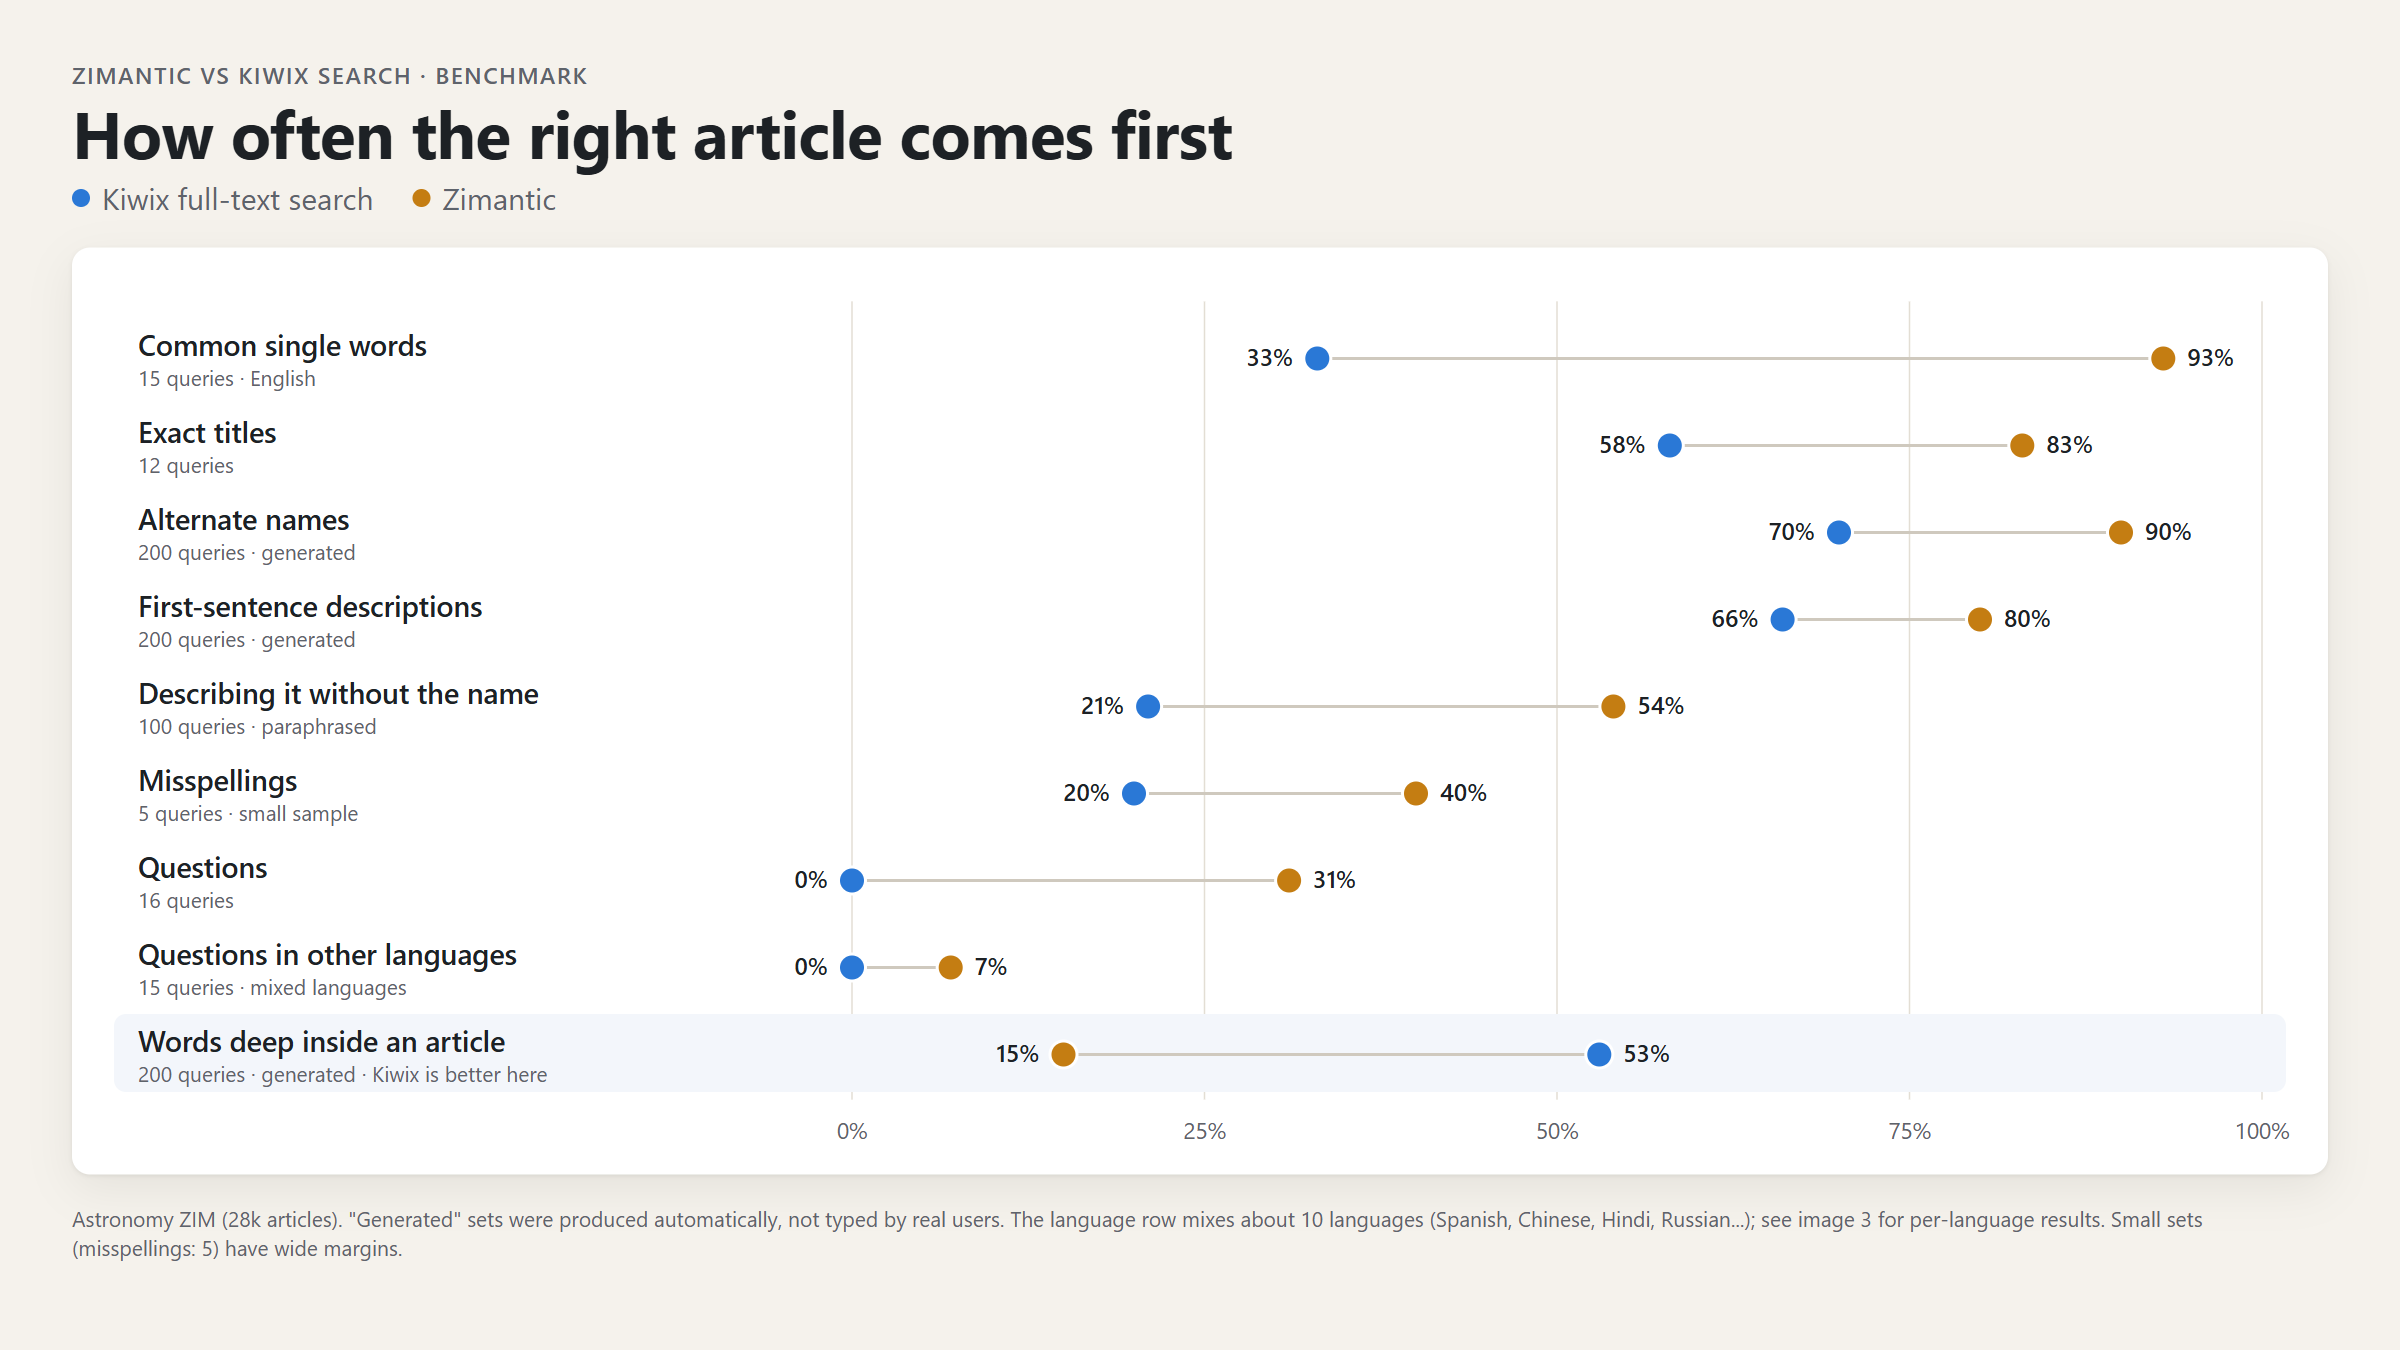
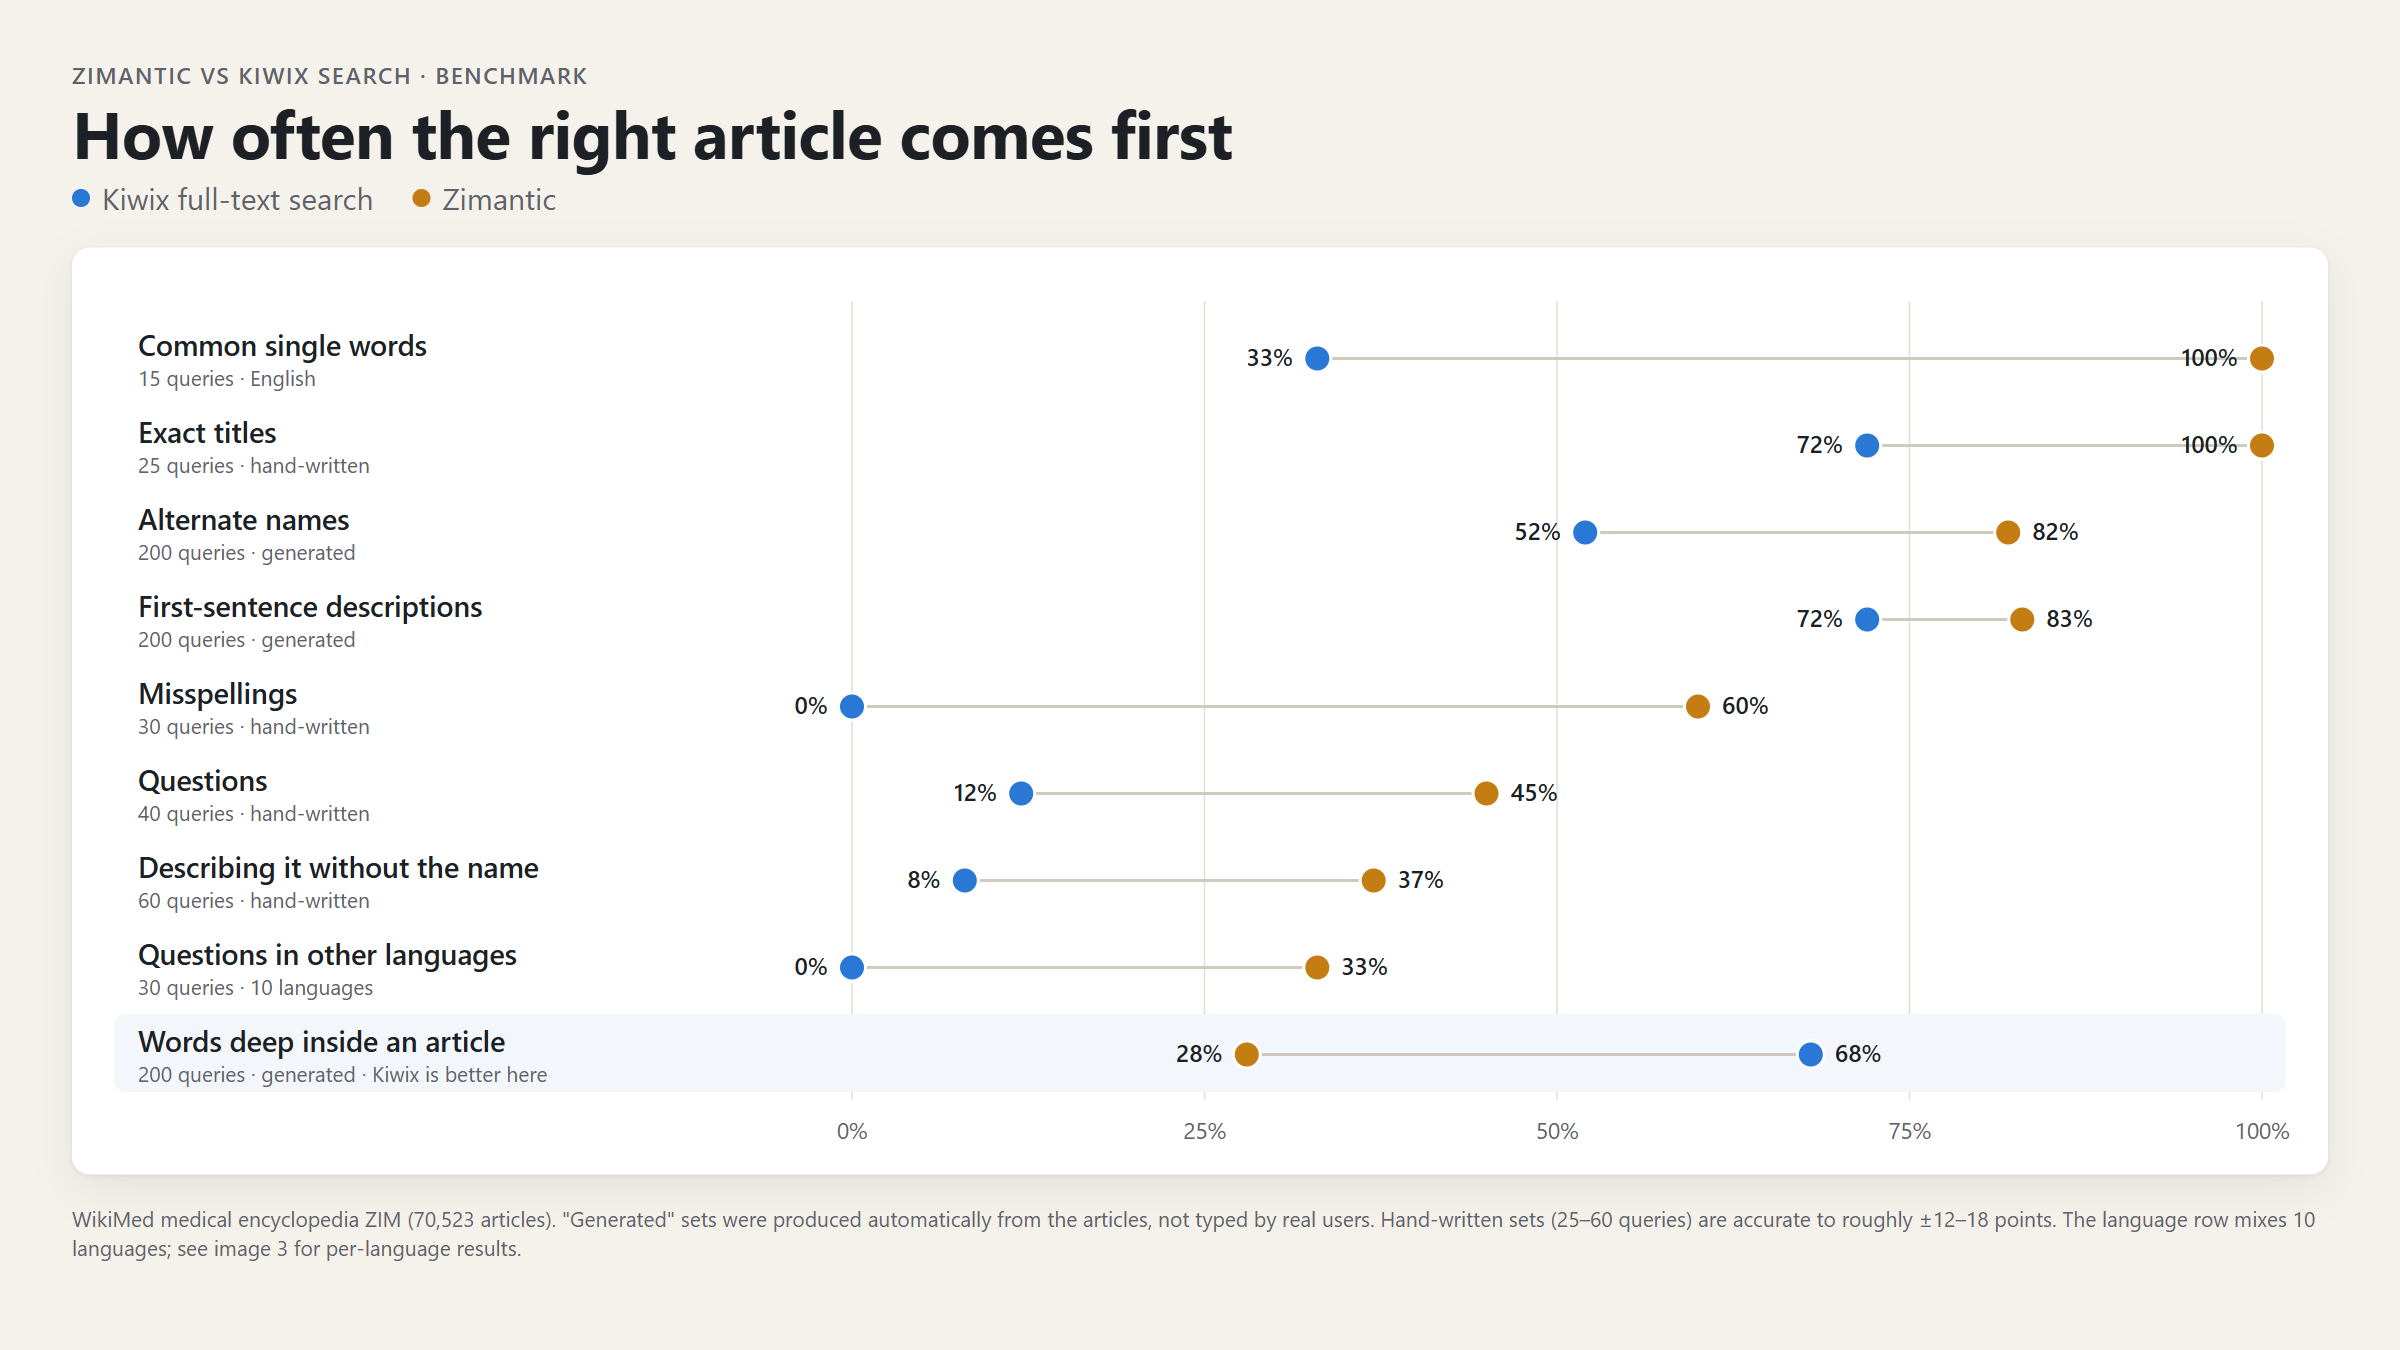
Change: tested on wikimed

diff --git a/README.md b/README.md
@@ -9,14 +9,16 @@ as a Raspberry Pi Zero 2 W.
 
 | You type | Kiwix search | Zimantic |
 |---|---|---|
-| "comet that comes back every 76 years" | *Halley's Comet* at #4 | *Halley's Comet* at **#1** |
-| "moon" | *Moon* at #9 | *Moon* at **#1** |
-| "الشمس" (Arabic for "the sun") | *Sun* not in the top 20 | *Sun* at **#1** |
+| "what causes lockjaw" | *Tetanus* not in the top 20 | *Tetanus* at **#1** |
+| "diabetis" (misspelled) | *Diabetes* not in the top 20 | *Diabetes* at **#1** |
+| "糖尿病" (Chinese for "diabetes") | *Diabetes* not in the top 20 | *Diabetes* at **#1** |
+
+*Searched in WikiMed, the Wikipedia medical encyclopedia ZIM. Results below.*
 
 ## Features
 
 - **Search by meaning**: questions and descriptions find articles even when they share no words with the title.
-- **Alternate names and misspellings**: "andromeda galaxie" finds *Andromeda Galaxy*.
+- **Alternate names and misspellings**: "diabetis" finds *Diabetes*; "Leber's disease" finds *Leber's hereditary optic neuropathy*.
 - **Multilingual**: one model covers 100+ languages; a query in one language finds articles written in another.
   Strongest in widely used languages (see the results below).
 - **Several collections at once**: search any combination of your ZIMs, ranked together in one list.
@@ -63,7 +65,7 @@ Input is capped at 256 tokens.
 | ZIM size | Vector index | Why |
 |---|---|---|
 | Under 10,000 articles | **Flat**: the query is compared with every vector | Exact, and small enough (a few MB) that comparing everything is fast |
-| 10,000 articles or more | **IVF + 8-bit (SQ8)**: vectors are grouped into 4·√n clusters, and each search only scans the closest `nprobe` clusters (64 by default) | Comparing millions of vectors per search is too slow. On the 28k-article astronomy ZIM, scanning 64 of 672 clusters (~10%) was about as accurate as scanning everything. 8-bit numbers were nearly exact. **heavier compression methods (e.g. PQ48) lost ~25% of the top hits.** |
+| 10,000 articles or more | **IVF + 8-bit (SQ8)**: vectors are grouped into 4·√n clusters, and each search only scans the closest `nprobe` clusters (64 by default) | Comparing millions of vectors per search is too slow. On WikiMed (70k articles), scanning 64 of 1,062 clusters (6%) was within a few points of scanning every cluster, at less than half the search time (26 ms vs 66 ms). 8-bit numbers were nearly exact. **Heavier compression (e.g. PQ48) lost ~25% of the top hits in earlier testing.** |
 
 The `.faiss` file is memory-mapped: the operating system reads only the **clusters** a search touches instead of loading
 the whole index into RAM. Clusters are found relative to the distance of query-to-cluster centres in vector space.
@@ -74,7 +76,7 @@ If a build stops, running it again resumes from the last saved batch.
 
 At startup Zimantic loads the embedding model and opens every **finished** index; that is, the SQLite file
 , the FAISS file, and the ZIM.
-These stay open for as long as the server runs; **nothing is reloaded per search**.
+These stay open for as long as the server runs; **nothing is reloaded per search**. 
 
 A lightweight HTML page is served through FastAPI and is accessible from any browser at `http://<host>:8090`
 (the `port` in `config.yaml`).
@@ -86,9 +88,9 @@ A lightweight HTML page is served through FastAPI and is accessible from any bro
 
    | Search | Finds | Good at | Time |
    |---|---|---|---|
-   | **Meaning** (FAISS) | Articles whose first-paragraph vector is closest to the query (cosine similarity) | Questions, descriptions, other languages | ~5 ms |
-   | **Title words** (SQLite FTS5, BM25 ranking) | Titles containing every word of the query, including redirect titles | Exact titles, alternate names (via redirect titles) | ~2 ms |
-   | **Full text** (the ZIM's own Kiwix index) | Articles containing the words anywhere | Words buried deep inside an article | ~5 ms |
+   | **Meaning** (FAISS) | Articles whose first-paragraph vector is closest to the query (cosine similarity) | Questions, descriptions, other languages | ~13 ms |
+   | **Title words** (SQLite FTS5, BM25 ranking) | Titles containing every word of the query, including redirect titles | Exact titles, alternate names (via redirect titles) | ~4 ms |
+   | **Full text** (the ZIM's own Kiwix index) | Articles containing the words anywhere | Words buried deep inside an article | ~8 ms |
 
 3. **Collapse redirects**: every hit on a redirect is replaced by the article it points to, and duplicates are
    merged, so each article appears only once.
@@ -97,7 +99,8 @@ A lightweight HTML page is served through FastAPI and is accessible from any bro
    an article earns `1 / (60 + its position)` from each list it appears in. An article found near the top
    by several searches beats one that's first in just one.
 
-*Timings may vary.*
+*Timings measured on WikiMed; a whole search took 26 ms (median over 785 benchmark queries).
+A Raspberry Pi Zero 2 W is much slower (around 150 ms).*
 
 ## Compared with Kiwix search
 
@@ -106,7 +109,8 @@ A lightweight HTML page is served through FastAPI and is accessible from any bro
 ![Ask in another language](docs/images/3-languages.png)
 ![How often the right article comes first: Zimantic vs Kiwix](docs/images/0-scorecard.png)
 
-*Measured on the Wikipedia astronomy ZIM (28k articles), against kiwix-serve's full-text search.*
+*Measured on WikiMed, the Wikipedia medical encyclopedia ZIM (`wikipedia_en_medicine_maxi_2026-04`, 70,523 articles),
+against kiwix-serve's full-text search.*
 
 ### Results by type of search
 
@@ -115,38 +119,42 @@ A lightweight HTML page is served through FastAPI and is accessible from any bro
 
 | Type of search | Example query → article wanted | Kiwix | Zimantic | #1 Kiwix → Zimantic | Top 5 Kiwix → Zimantic | Queries |
 |---|---|---|---|---|---|---|
-| Common single words | "moon" → *Moon* | #9 | **#1** | 33% → **93%** | 80% → **93%** | 15 |
-| Exact titles | "Jupiter" → *Jupiter* | #2 | **#1** | 58% → **83%** | **100%** → 83% | 12 |
-| Alternate names | "Cosmic rays" → *Cosmic ray* | #2 | **#1** | 70% → **90%** | 80% → **98%** | 200¹ |
-| Misspellings | "andromeda galaxie" → *Andromeda Galaxy* | #3 | **#1** | 20% → **40%** | 40% → **60%** | 5² |
-| First-sentence descriptions | "is a blue supergiant star in the constellation of Major." → *Eta Canis Majoris* | #4 | **#1** | 66% → **80%** | 80% → **89%** | 200¹ |
-| Describing it without the name | "device that automatically keeps a telescope locked onto the target it is observing" → *Autoguider* | not in top 20 | **#1** | 21% → **54%** | 29% → **74%** | 100 |
-| Questions | "comet that comes back every 76 years" → *Halley's Comet* | #4 | **#1** | 0% → **31%** | 25% → **69%** | 16 |
-| Questions & phrases in other languages³ | "¿por qué la luna tiene fases?" (Spanish) → *Lunar phase* | not in top 20 | **#1** | 0% → **7%** | 0% → **20%** | 15 |
-| Words deep inside an article | "In 1998, was awarded the Swiss Marcel Benoist Prize…" → *Michel Mayor* | **#1** | #2 | **53%** → 15% | **65%** → 58% | 200¹ |
+| Common single words | "tuberculosis" → *Tuberculosis* | #3 | **#1** | 33% → **100%** | 93% → **100%** | 15 |
+| Exact titles | "Malaria" → *Malaria* | #2 | **#1** | 72% → **100%** | 100% → 100% | 25 |
+| Alternate names | "Leber's disease" → *Leber's hereditary optic neuropathy* | #2 | **#1** | 52% → **82%** | 70% → **99%** | 200¹ |
+| Misspellings | "diabetis" → *Diabetes* | not in top 20 | **#1** | 0% → **60%** | 7% → **83%** | 30 |
+| First-sentence descriptions | "(INN) is a non-steroidal anti-inflammatory drug (NSAID)." → *Ampiroxicam* | #5 | **#1** | 72% → **83%** | 82% → **92%** | 200¹ |
+| Describing it without the name | "poor blood flow to part of the brain that kills brain cells" → *Stroke* | #17 | **#1** | 8% → **37%** | 37% → **78%** | 60 |
+| Questions | "what causes lockjaw" → *Tetanus* | not in top 20 | **#1** | 12% → **45%** | 28% → **80%** | 40 |
+| Questions & phrases in other languages² | "Herzinfarkt" (German: heart attack) → *Myocardial infarction* | not in top 20 | **#1** | 0% → **33%** | 0% → **53%** | 30 |
+| Words deep inside an article | "When undergoing lymphadenopathy, these are described as feeling like a "firm pea"." → *Facial lymph nodes* | **#1** | #2 | **68%** → 28% | **78%** → 76% | 200¹ |
 
-¹ Generated automatically from the articles, not typed by real users.
-² Small sample: treat as a direction, not a precise number.
-³ Spanish, French, German, Chinese, Arabic, Hindi, Swahili, Russian, Japanese and Portuguese, mixed.
+¹ Generated automatically from the articles, not typed by real users. The other sets were written by hand; with 25–60 queries
+each, treat their numbers as accurate to roughly ±12–18 points.
+² Spanish, French, German, Chinese, Hindi, Arabic, Russian, Japanese, Swahili and Portuguese, mixed.
 
 ### Single words in other languages
 
-The English articles searched with one word in another language (for example "moon" in that language), 15 words per language.
+The English articles searched with one word in another language, 15 common medical words per language
+(malaria, diabetes, fever, cough, pregnancy, heart, blood, …). Translations were written for this test, so less common
+languages may contain mistakes.
 
 | Language | Example query → article wanted | Kiwix | Zimantic | #1 Kiwix → Zimantic | Top 5 Kiwix → Zimantic |
 |---|---|---|---|---|---|
-| English | "sun" → *Sun* | #2 | **#1** | 33% → **93%** | 80% → **93%** |
-| French | "télescope" → *Telescope* | #4 | **#1** | 20% → **33%** | 33% → **47%** |
-| Portuguese | "sol" → *Sun* | not in top 20 | **#3** | 7% → **27%** | 27% → **67%** |
-| Arabic | "الشمس" → *Sun* | not in top 20 | **#1** | 0% → **20%** | 0% → **33%** |
-| Afrikaans | "planeet" → *Planet* | not in top 20 | **#1** | 0% → **13%** | 7% → **33%** |
-| Amharic | "ፀሐይ" → *Sun* | not in top 20 | **#1** | 0% → **13%** | 0% → **20%** |
-| Swahili | "mwezi" → *Moon* | not in top 20 | **#6** | 0% → **13%** | 7% → 13% |
-| Somali | | | | 0% → **7%** | 7% → 7% |
-| Hausa, Yoruba, Igbo, Zulu, Kinyarwanda | | | | 0% → 0% | 0% → 0% |
+| English | "tuberculosis" → *Tuberculosis* | #3 | **#1** | 33% → **100%** | 93% → **100%** |
+| Spanish | "dolor de cabeza" → *Headache* | not in top 20 | **#1** | 13% → **60%** | 20% → **73%** |
+| French | "tuberculose" → *Tuberculosis* | #15 | **#1** | 13% → **53%** | 27% → **60%** |
+| Portuguese | "coração" → *Heart* | #4 | **#1** | 13% → **53%** | 40% → **80%** |
+| Afrikaans | "bloed" → *Blood* | not in top 20 | **#1** | 7% → **33%** | 20% → **33%** |
+| Arabic | "سعال" → *Cough* | not in top 20 | **#1** | 0% → **20%** | 0% → **33%** |
+| Hindi | "मलेरिया" → *Malaria* | not in top 20 | **#1** | 0% → **20%** | 0% → **33%** |
+| Amharic | "ልብ" → *Heart* | not in top 20 | **#1** | 0% → **13%** | 0% → **13%** |
+| Somali | "madax xanuun" → *Headache* | not in top 20 | **#1** | 0% → **13%** | 0% → **13%** |
+| Swahili, Igbo, Zulu, Kinyarwanda | e.g. "ikholera" (Zulu) → *Cholera* | not in top 20 | **#1** | 0% → **7%** | 0–7% → 7% |
+| Hausa, Yoruba | | | | 0% → 0% | 0% → 0% |
 
 **Where Kiwix is still better, or cheaper:**
-- **Words buried deep inside an article.** Kiwix indexes every word thus performs better on deeper searches(53% first vs 15%). While Zimantic only indexes each article's title and first paragraph.
+- **Words buried deep inside an article.** Kiwix indexes every word thus performs better on deeper searches (68% first vs 28%; in the top 5 they're nearly tied, 78% vs 76%). While Zimantic only indexes each article's title and first paragraph.
 - **No setup.** Kiwix search works the moment a ZIM is added. Zimantic must index each ZIM
   first.
 - **Smaller footprint.** Zimantic adds a `.sqlite` and `.faiss` per ZIM and needs more RAM.
@@ -219,13 +227,13 @@ Your files are somewhere else (a USB drive, another disk)? Point `zim_dir`, `mod
 ## Use
 
 ```bash
-python -m zimantic build wikipedia_en_astronomy_maxi_2025-11   # index ZIMs in zim_dir by name (one or more)
+python -m zimantic build wikipedia_en_medicine_maxi_2026-04   # index ZIMs in zim_dir by name (one or more)
 python -m zimantic build --path /some/where/x.zim             # or index one ZIM file by its path
 python -m zimantic serve                                      # web page on http://<host>:8090 after build is succesful
 ```
 
-The name is the ZIM's file name without `.zim` (for `zims/wikipedia_en_astronomy_maxi_2025-11.zim`,
-use `wikipedia_en_astronomy_maxi_2025-11`).
+The name is the ZIM's file name without `.zim` (for `zims/wikipedia_en_medicine_maxi_2026-04.zim`,
+use `wikipedia_en_medicine_maxi_2026-04`).
 
 To open articles from the results, run kiwix-serve with the same ZIMs, in a second terminal:
 
